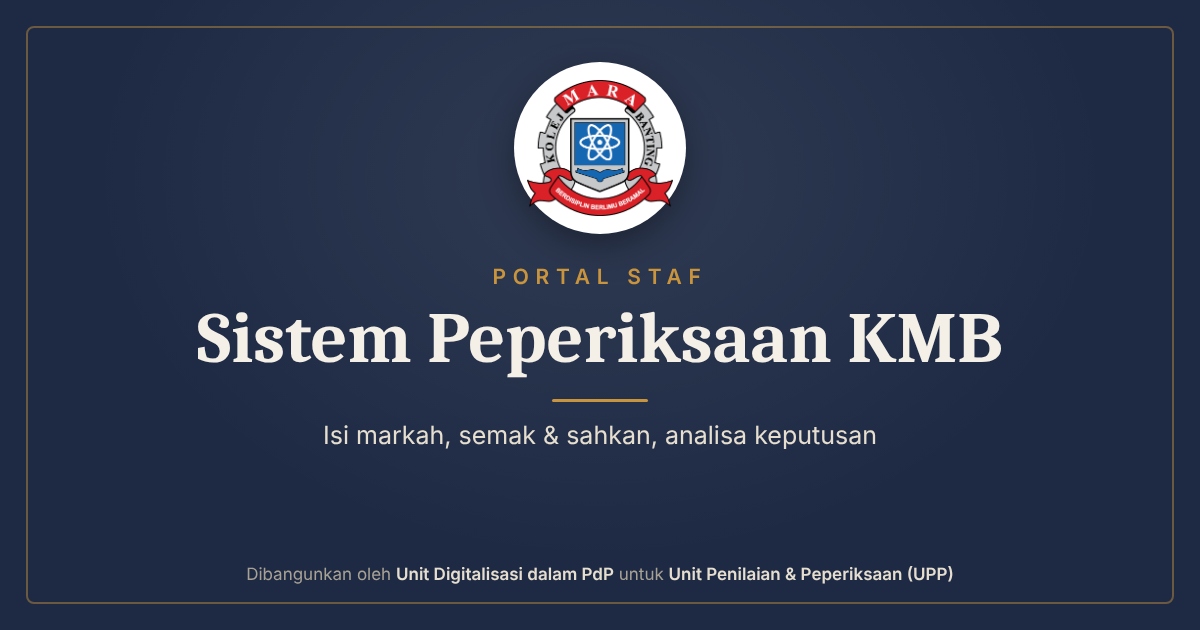
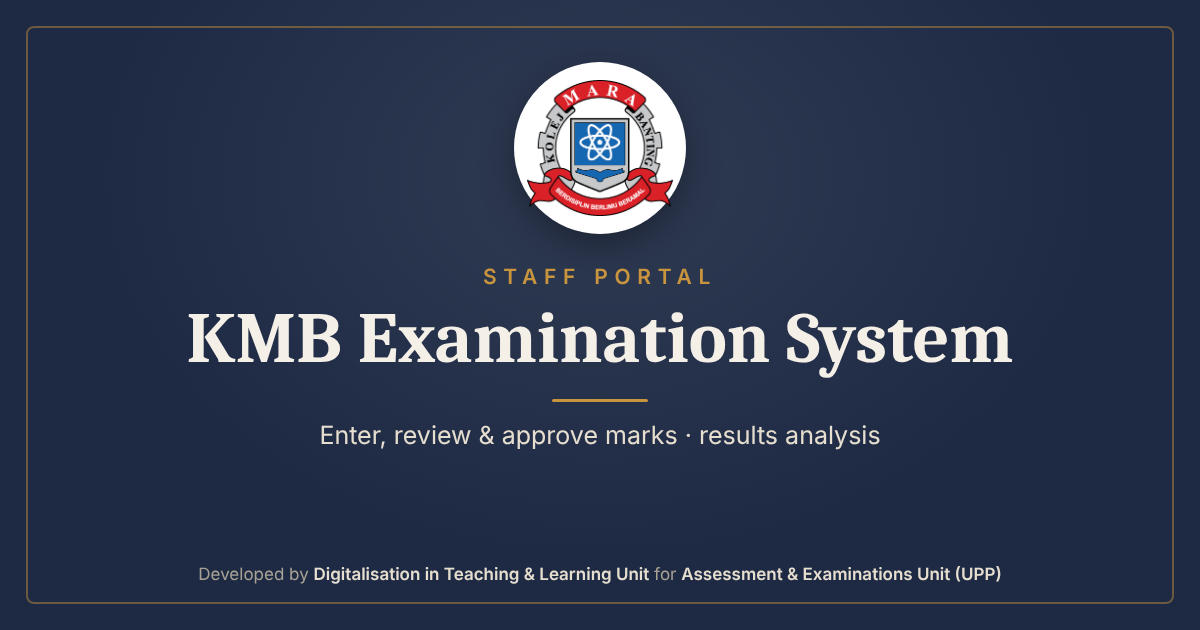
Add files via upload

diff --git a/index.html b/index.html
@@ -1,30 +1,44 @@
 <!doctype html>
-<html lang="ms">
+<html lang="en">
 <head>
 <meta charset="utf-8">
-<meta name="viewport" content="width=device-width, initial-scale=1">
-<title>Portal Staf · Sistem Peperiksaan KMB</title>
-<meta name="description" content="Isi markah, semak dan sahkan, serta analisa keputusan peperiksaan IB Kolej MARA Banting.">
+<meta name="viewport" content="width=device-width, initial-scale=1, viewport-fit=cover">
+<meta name="theme-color" content="#1E2A44">
+<title>Staff Portal · KMB Examination System</title>
+<meta name="description" content="Enter, review and approve marks, and analyse examination results at Kolej MARA Banting.">
+<link rel="icon" type="image/png" href="logo.png">
+<link rel="apple-touch-icon" href="logo.png">
 <meta property="og:type" content="website">
-<meta property="og:title" content="Portal Staf · Sistem Peperiksaan KMB">
-<meta property="og:description" content="Isi markah, semak dan sahkan, serta analisa keputusan peperiksaan IB Kolej MARA Banting.">
+<meta property="og:title" content="Staff Portal · KMB Examination System">
+<meta property="og:description" content="Enter, review and approve marks, and analyse examination results at Kolej MARA Banting.">
 <meta property="og:url" content="https://kmb-digital.github.io/exam_portal_uppd/">
 <meta property="og:image" content="https://kmb-digital.github.io/exam_portal_uppd/thumbnail-wide.png">
 <meta property="og:image:width" content="1200">
 <meta property="og:image:height" content="630">
 <meta name="twitter:card" content="summary_large_image">
-<meta name="twitter:title" content="Portal Staf · Sistem Peperiksaan KMB">
-<meta name="twitter:description" content="Isi markah, semak dan sahkan, serta analisa keputusan peperiksaan IB Kolej MARA Banting.">
+<meta name="twitter:title" content="Staff Portal · KMB Examination System">
+<meta name="twitter:description" content="Enter, review and approve marks, and analyse examination results at Kolej MARA Banting.">
 <meta name="twitter:image" content="https://kmb-digital.github.io/exam_portal_uppd/thumbnail-wide.png">
-<style>body{margin:0;min-height:100vh;display:flex;align-items:center;justify-content:center;background:#1E2A44;color:#F4EFE7;font-family:system-ui,sans-serif;text-align:center;padding:16px}a{color:#C9943E}</style>
+<style>
+  html,body{margin:0;height:100%;background:#F4EFE7}
+  iframe{position:fixed;inset:0;width:100%;height:100%;border:0;display:block}
+  .muat{position:fixed;inset:0;display:flex;flex-direction:column;align-items:center;justify-content:center;gap:12px;font-family:system-ui,sans-serif;color:#5E6577;text-align:center;padding:16px}
+  .muat img{width:64px;height:64px;border-radius:50%;background:#fff}
+  .muat a{color:#9A6A12}
+</style>
 </head>
 <body>
-<p>Membuka Portal Staf · Sistem Peperiksaan KMB…<br><a id="pautan" href="#">Klik di sini jika tidak dibuka secara automatik</a></p>
+<!-- The portal runs inside this full-screen frame, so the Google Apps Script warning banner is not shown. -->
+<div class="muat" id="muat"><img src="logo.png" alt=""><div>Loading Staff Portal…</div>
+  <div style="font-size:13px">Taking too long? <a id="terus" href="#">Open the portal directly</a></div></div>
+<iframe id="portal" title="Staff Portal · KMB Examination System" allow="clipboard-write"></iframe>
 <script>
-  // Pautan /exec Portal Staf. Jika deployment baharu dibuat dengan pautan lain, tukar di sini sahaja.
+  // Apps Script /exec link of the Staff Portal. If a new deployment changes the link, change it here only.
   const PORTAL = 'https://script.google.com/a/macros/kmb-digital-unit.net/s/AKfycbz0Rj_cYsNGqbn5iaMsBKNYabW84C9wtJtJrQcbLbBHR4viAI5kSRtRJ4aFcdrWhV8V9w/exec';
-  document.getElementById('pautan').href = PORTAL;
-  if (PORTAL.indexOf('script.google.com') >= 0) location.replace(PORTAL);
+  const f = document.getElementById('portal');
+  document.getElementById('terus').href = PORTAL;
+  f.onload = () => { document.getElementById('muat').hidden = true; };
+  f.src = PORTAL;
 </script>
 </body>
 </html>
